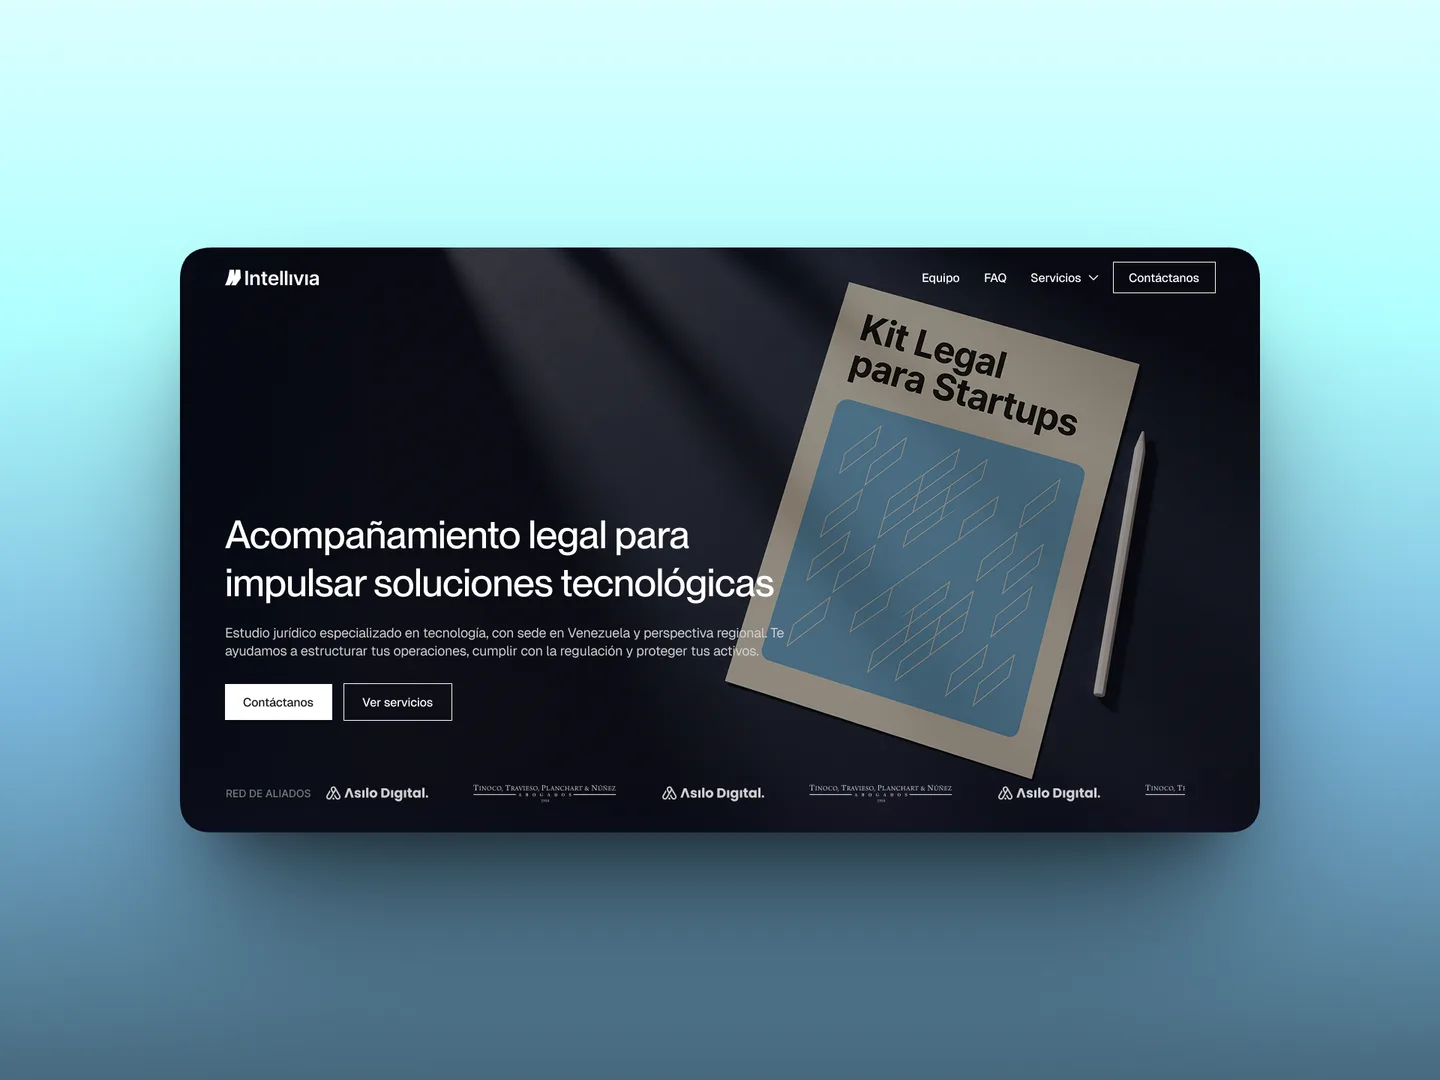
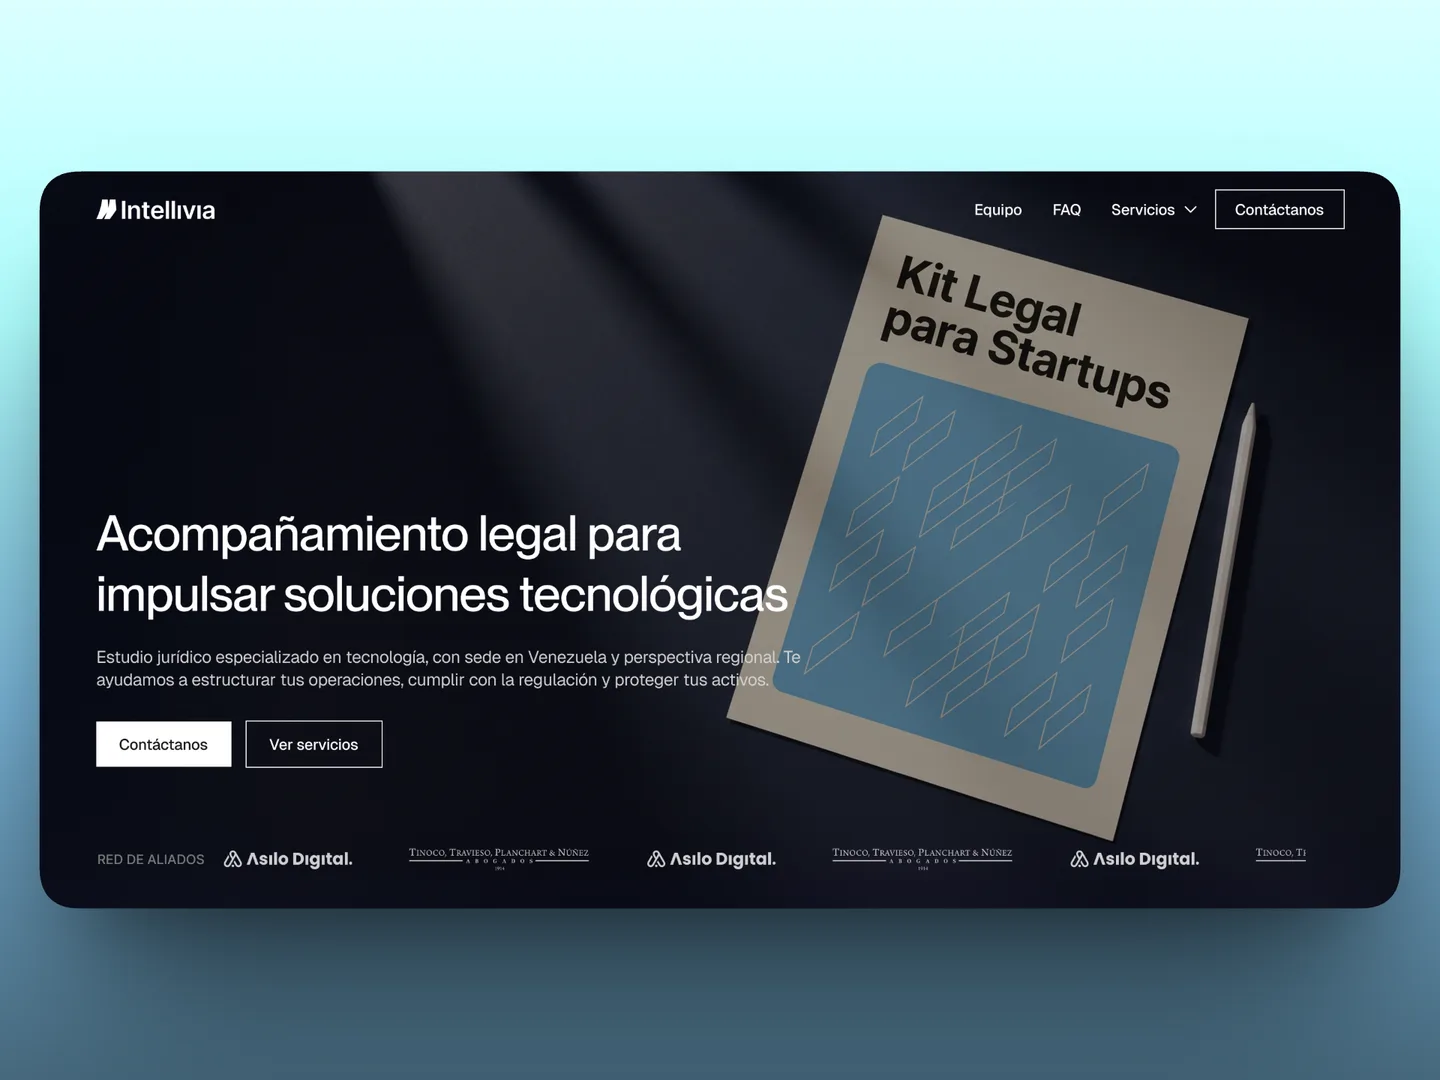
Cambiar la imagen de Intellivia por la nueva captura
La nueva captura (mockup más grande dentro del marco) reemplaza a
intellivia.webp: de PNG 1920×1440 (2,9 MB) a WebP 1440×1080 (59 KB).
Se quita el PNG subido.

Claude-Session: https://claude.ai/code/session_01BG1sN1hVr3gaPwqigDwCUL

diff --git a/tests/servicios.test.ts b/tests/servicios.test.ts
@@ -218,7 +218,10 @@ describe("landing de servicios v3", () => {
     expect(section.match(/width="1440"\s+height="1080"/g)).toHaveLength(3);
     expect(projects[0]!.image.src).toBe("/servicios/proyectos/intellivia.webp");
     expect(projects[0]!.image.alt).not.toMatch(/pendiente/i);
-    expect(existsSync(new URL("../public/servicios/proyectos/718shots_so.png", import.meta.url))).toBe(false);
+    // Las capturas subidas en PNG se convierten a WebP; los originales no quedan publicados.
+    for (const file of ["718shots_so.png", "221shots_so.png"]) {
+      expect(existsSync(new URL(`../public/servicios/proyectos/${file}`, import.meta.url))).toBe(false);
+    }
 
     // Productos: Intellivia, Tillín y Empléate, con las etiquetas que da el equipo.
     expect(projects.map((p) => [p.name, p.tags])).toEqual([
